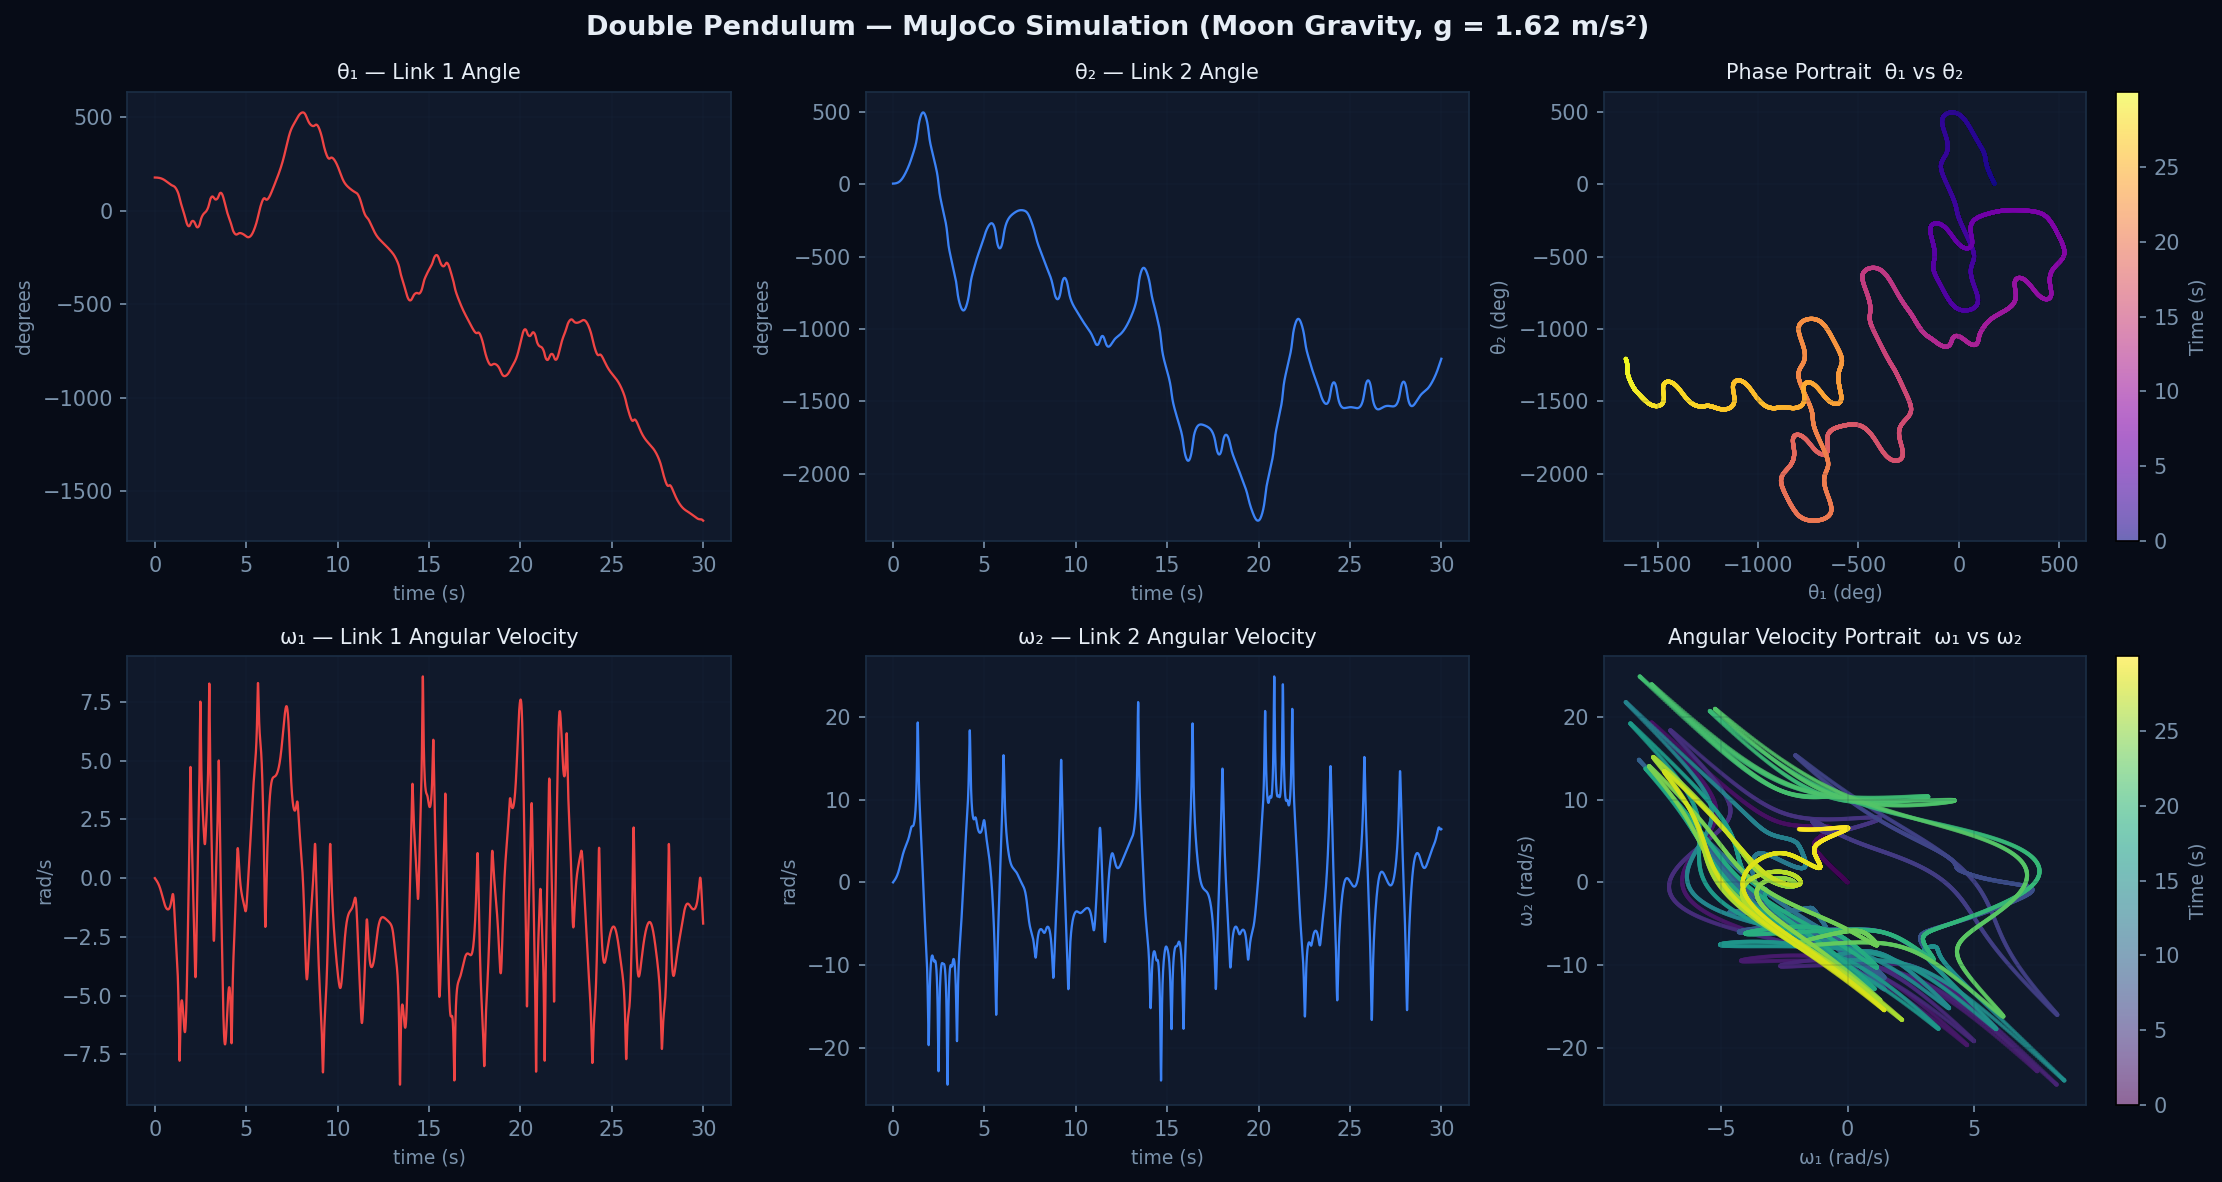
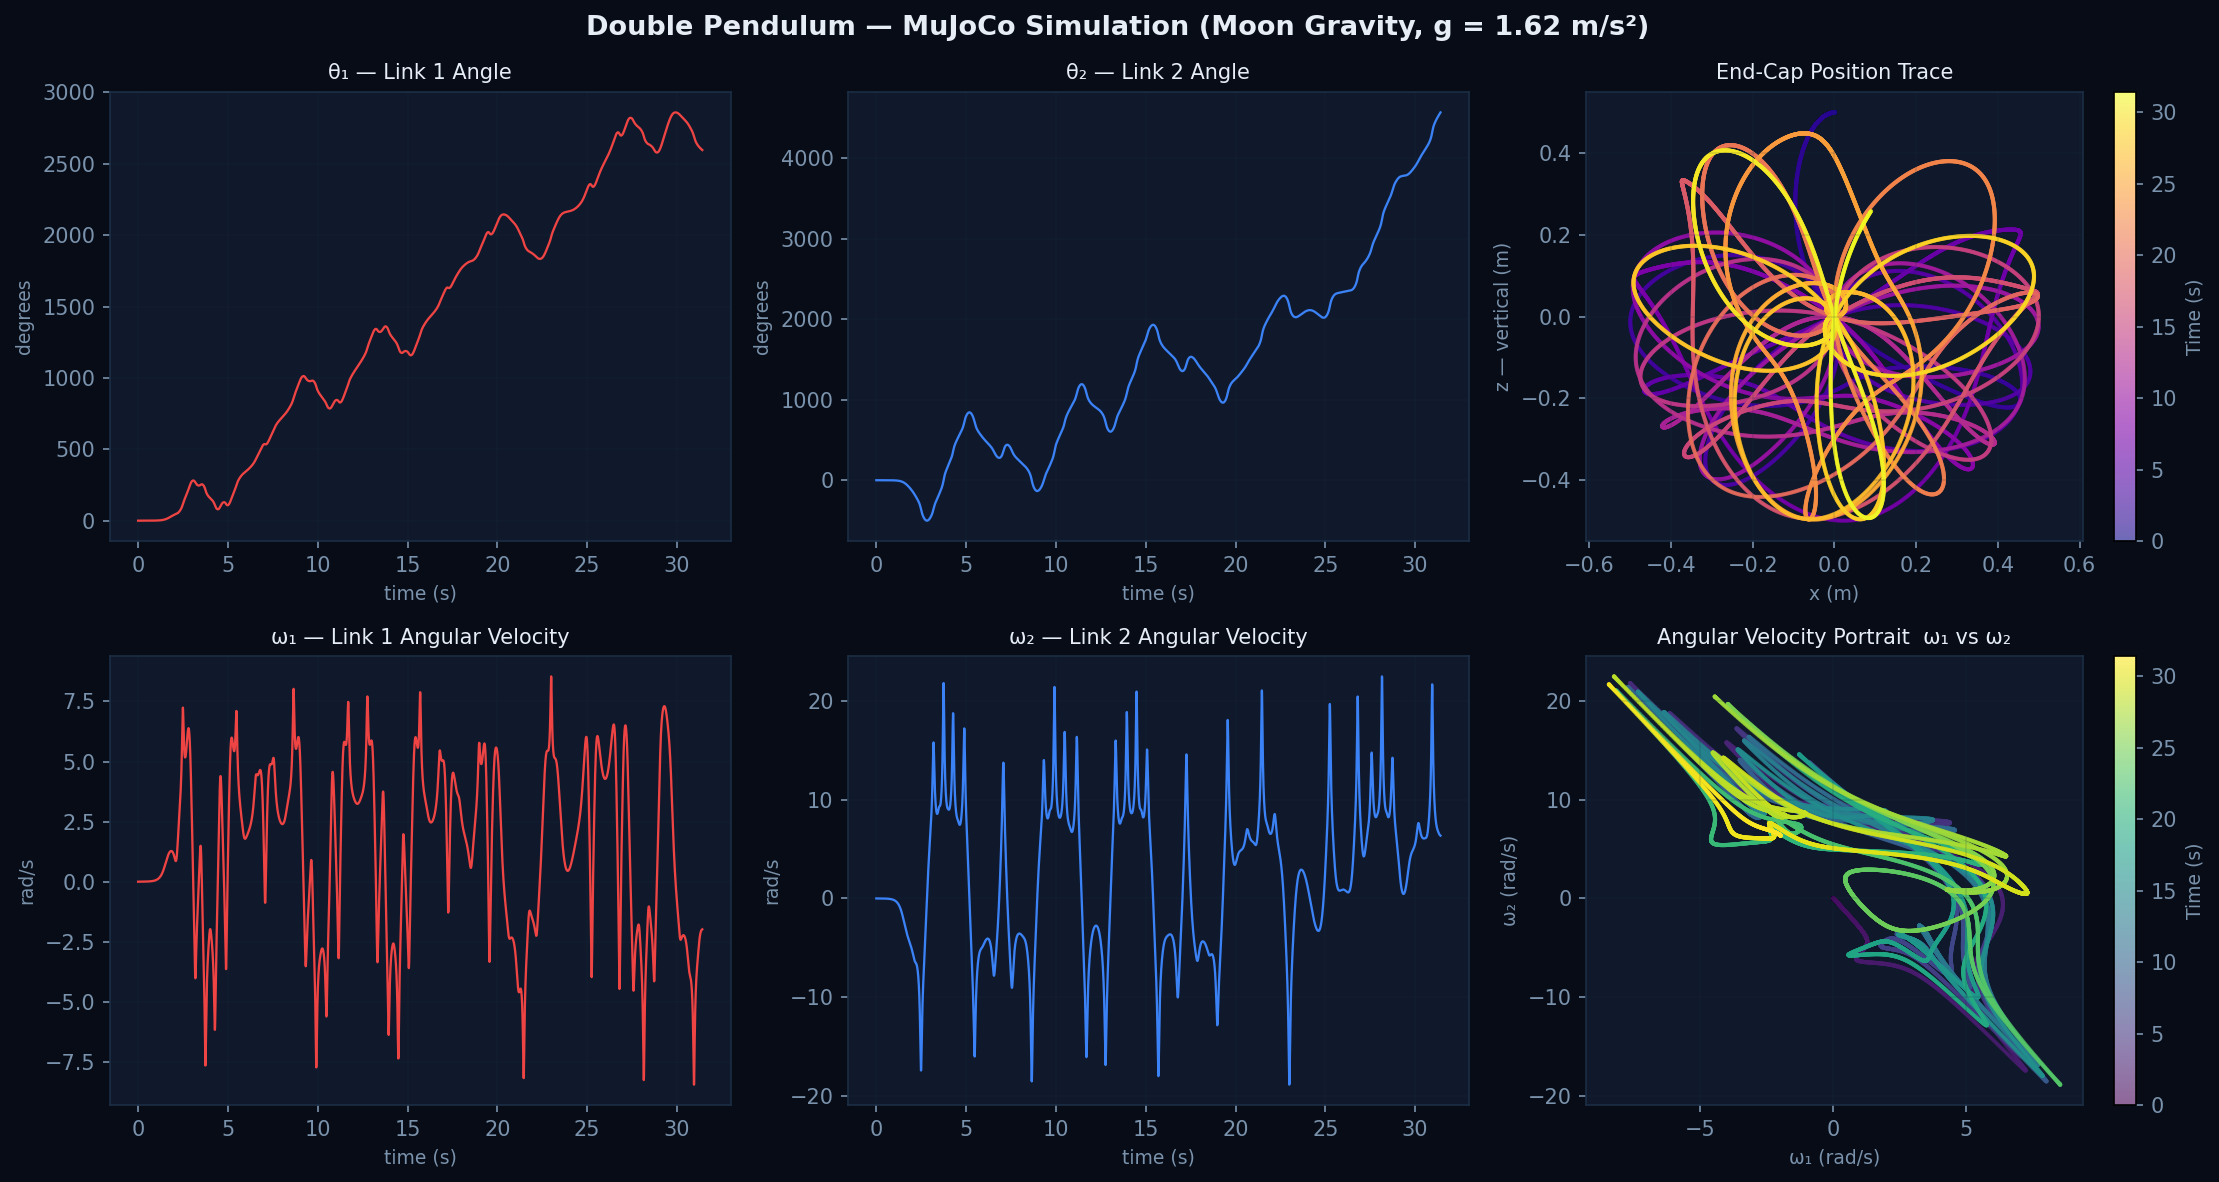
cleanup to the double pendulum

diff --git a/double_pendulum/double_pendulum_sim.py b/double_pendulum/double_pendulum_sim.py
@@ -28,19 +28,15 @@ VIDEO_PATH = HERE / "double_pendulum_sim.mp4"
 PLOT_PATH  = HERE / "double_pendulum_states.png"
 
 # ── simulation knobs ─────────────────────────────────────────────────────────
-SIM_DURATION = 30.0     # seconds
+SIM_DURATION = 31.4159  # seconds
 RENDER_FPS   = 60
-RENDER_W     = 1280
-RENDER_H     = 720
+# Portrait 9:16 to match standard mobile screens (e.g. 1080×1920).
+RENDER_W     = 720
+RENDER_H     = 1280
 
-# Initial joint angles in radians measured from the downward-hanging position.
-# qpos = π means the link points straight up (inverted, unstable equilibrium).
-# Starting both links nearly inverted with a tiny asymmetric offset triggers
-# the chaotic tumbling — the inverted double pendulum is maximally sensitive
-# to initial conditions; a change of 1e-6 rad gives a completely different
-# trajectory within seconds.
-THETA1_0 = np.pi - 0.05   # link 1: 2.9° from fully inverted
-THETA2_0 = 0.08            # link 2: 4.6° from link 1 (breaks symmetry)
+# Initial joint angles in radians 
+THETA1_0 = 0.001
+THETA2_0 = 0.0
 
 
 # ── simulation ───────────────────────────────────────────────────────────────
@@ -53,16 +49,17 @@ def run_simulation():
     data.qpos[1] = THETA2_0
     mujoco.mj_forward(model, data)
 
-    # Front view: camera on the +y side looking toward -y so the full
-    # x-z swing plane is visible with the door backdrop behind the links.
-    # azimuth=180 → camera at lookat + (0, +distance, 0).
+    # World position of link 2's end cap is read from geom_xpos each step.
+    end_cap_id = mujoco.mj_name2id(model, mujoco.mjtObj.mjOBJ_GEOM, "end_cap")
+
+    # Isometric view
     cam = mujoco.MjvCamera()
     mujoco.mjv_defaultCamera(cam)
     cam.type        = mujoco.mjtCamera.mjCAMERA_FREE
-    cam.lookat[:]   = (0.0, 0.0, 0.0)
-    cam.distance    = 1.40
-    cam.azimuth     = 180.0
-    cam.elevation   = 0.0
+    cam.lookat[:]   = (-0.025, 0.0, -0.1)
+    cam.distance    = 2.2
+    cam.azimuth     = 300.0
+    cam.elevation   = -35
 
     dt           = model.opt.timestep
     n_steps      = int(SIM_DURATION / dt)
@@ -73,6 +70,7 @@ def run_simulation():
     theta2 = np.empty(n_steps)
     omega1 = np.empty(n_steps)
     omega2 = np.empty(n_steps)
+    tip    = np.empty((n_steps, 3))   # end-cap world position [x, y, z]
     frames = []
 
     print(f"Simulating {SIM_DURATION} s  "
@@ -85,6 +83,7 @@ def run_simulation():
         theta2[i] = data.qpos[1]
         omega1[i] = data.qvel[0]
         omega2[i] = data.qvel[1]
+        tip[i]    = data.geom_xpos[end_cap_id]
 
         if i % render_every == 0:
             renderer.update_scene(data, camera=cam)
@@ -94,7 +93,7 @@ def run_simulation():
 
     renderer.close()
     print(f"Captured {len(frames)} frames.")
-    return times, theta1, theta2, omega1, omega2, frames
+    return times, theta1, theta2, omega1, omega2, tip, frames
 
 
 # ── video export ──────────────────────────────────────────────────────────────
@@ -114,7 +113,7 @@ def save_video(frames):
 
 
 # ── state plots ───────────────────────────────────────────────────────────────
-def plot_states(times, theta1, theta2, omega1, omega2):
+def plot_states(times, theta1, theta2, omega1, omega2, tip):
     print(f"Saving plots  → {PLOT_PATH}")
 
     # Site palette
@@ -160,17 +159,20 @@ def plot_states(times, theta1, theta2, omega1, omega2):
     ax.set_xlabel("time (s)", color=MUTED, fontsize=9)
     ax.set_ylabel("degrees", color=MUTED, fontsize=9)
 
-    # ── Panel 3: phase portrait θ₁ vs θ₂, coloured by time ─────────────────
+    # ── Panel 3: end-cap position trace, coloured by time ─────────────────
+    # The pendulum swings in the x-z plane (rotation about y), so the tip path
+    # is its horizontal x vs vertical (world z); world y is the ~constant depth.
     ax = axes[0, 2]
     style_ax(ax)
-    sc = ax.scatter(deg1, deg2, c=times, cmap="plasma", s=1, alpha=0.6, rasterized=True)
+    sc = ax.scatter(tip[:, 0], tip[:, 2], c=times, cmap="plasma", s=1, alpha=0.6, rasterized=True)
     cb = plt.colorbar(sc, ax=ax)
     cb.set_label("Time (s)", color=MUTED, fontsize=9)
     cb.ax.yaxis.set_tick_params(color=MUTED)
     plt.setp(cb.ax.yaxis.get_ticklabels(), color=MUTED)
-    ax.set_title("Phase Portrait  θ₁ vs θ₂", color=TEXT, fontsize=10)
-    ax.set_xlabel("θ₁ (deg)", color=MUTED, fontsize=9)
-    ax.set_ylabel("θ₂ (deg)", color=MUTED, fontsize=9)
+    ax.set_title("End-Cap Position Trace", color=TEXT, fontsize=10)
+    ax.set_xlabel("x (m)", color=MUTED, fontsize=9)
+    ax.set_ylabel("z — vertical (m)", color=MUTED, fontsize=9)
+    ax.set_aspect("equal", adjustable="datalim")
 
     # ── Panel 4: ω₁ vs time ─────────────────────────────────────────────────
     ax = axes[1, 0]
@@ -208,6 +210,6 @@ def plot_states(times, theta1, theta2, omega1, omega2):
 
 # ── entry point ───────────────────────────────────────────────────────────────
 if __name__ == "__main__":
-    times, theta1, theta2, omega1, omega2, frames = run_simulation()
+    times, theta1, theta2, omega1, omega2, tip, frames = run_simulation()
     save_video(frames)
-    plot_states(times, theta1, theta2, omega1, omega2)
+    plot_states(times, theta1, theta2, omega1, omega2, tip)
